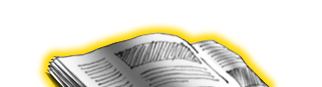
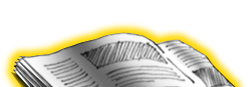
Mejora de newspaper

diff --git a/WP7/WP7/WP7/GamePages/Game.xaml b/WP7/WP7/WP7/GamePages/Game.xaml
@@ -474,7 +474,7 @@
             <Button x:Name="Files" Content="Button" Grid.Column="2" HorizontalAlignment="Left" Margin="72,92,0,114" Style="{StaticResource ArchiveStyle1}" Width="181" Click="Files_Click"/>
             <Button x:Name="Laptop" Content="Button" Grid.Column="2" Margin="240,218,8,0" Style="{StaticResource ButtonPc}" Click="Laptop_Click"/>
             <Button x:Name="Phone" Content="Button" Grid.Column="2" HorizontalAlignment="Left" Height="110" Margin="-43,0,0,0" Style="{StaticResource PhoneStyle1}" VerticalAlignment="Bottom" Width="123" Click="Phone_Click"/>
-            <Button x:Name="Newspaper" Content="Button" Grid.Column="2" Height="114" Margin="65,0,267,0" Style="{StaticResource NewspaperStyle1}" VerticalAlignment="Bottom" Click="Newspaper_Click"/>
+            <Button x:Name="Newspaper" Content="Button" Grid.Column="2" Margin="65,376,267,1" Style="{StaticResource NewspaperStyle1}" Click="Newspaper_Click" />
             <Image x:Name="Poster" Grid.Column="2" Margin="-99,-4,0,0" Source="/WP7;component/GameImages/cartel.png" Stretch="Fill" Opacity="0.92" Height="64" VerticalAlignment="Top" HorizontalAlignment="Left" Width="262"/>
             <TextBlock x:Name="TextCity" Grid.Column="1" TextWrapping="Wrap" FontSize="13.333" FontWeight="Bold" Height="19" VerticalAlignment="Top" Foreground="#FF261C9D" Margin="81,0,-62,0" FontFamily="/WP7;component/Fonts/fr-bold.ttf#Futurama Bold Font"/>
             <TextBlock x:Name="TextDate" Grid.Column="2" Margin="-94,19,0,0" TextWrapping="Wrap" FontSize="13.333" FontWeight="Bold" FontFamily="/WP7;component/Fonts/fr-bold.ttf#Futurama Bold Font" Height="19" VerticalAlignment="Top" HorizontalAlignment="Left" Width="254" Foreground="#FF261C9D"/>
